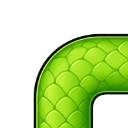
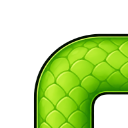
Improvement(snake): Refine corner body sprite
Context:
The refreshed Snake sprite set uses four base 128x128 segment images, with the corner body sprite rotated in CSS to render turns. The corner sprite was updated to better fit the surrounding segment art after the broader sprite refresh.

The desired behavior is for Snake turns to use the refined corner artwork while preserving gameplay, board layout, accessibility labels, segment-orientation logic, and the existing public sprite asset contract.

Implementation:
Replaced `public/images/snake/snake-body-corner.png` with the updated 128x128 RGBA PNG.

Bumped `SNAKE_ASSET_VERSION` in `src/components/snake-board.tsx` from `sprite-art-v10` to `sprite-art-v11` so browsers request refreshed Snake sprite URLs instead of reusing cached v10 corner artwork.

Updated `src/components/game-boards.test.tsx` static renderer expectations so Snake board output asserts the v11 sprite URLs for floor, snake segments, foods, timed foods, and obstacles, including the corner-body asset.

Verification:
- Confirmed `public/images/snake/snake-body-corner.png` remains a 128x128 8-bit RGBA non-interlaced PNG.
- Ran `npm test -- src/components/game-boards.test.tsx`; 1 file and 9 tests passed, including the Snake static renderer case that asserts the v11 corner sprite URL and rotated segment transform.
[…]

diff --git a/src/components/game-boards.test.tsx b/src/components/game-boards.test.tsx
@@ -76,18 +76,18 @@ describe("game board renderers", () => {
       "Snake board. Field 11 by 11. Score 7. Running. 2 obstacle blocks. Yellow apple active. Purple diamond active. Blue triangle active. Cyan hexagon active.",
       'data-testid="snake-food-feedback"',
       'data-testid="snake-overlay"',
-      "/images/snake/floor-cell.png?v=sprite-art-v10",
-      "/images/snake/snake-head.png?v=sprite-art-v10",
-      "/images/snake/snake-body-straight.png?v=sprite-art-v10",
-      "/images/snake/snake-body-corner.png?v=sprite-art-v10",
-      "/images/snake/snake-tail.png?v=sprite-art-v10",
-      "/images/snake/food-red-apple.png?v=sprite-art-v10",
-      "/images/snake/food-yellow-apple.png?v=sprite-art-v10",
-      "/images/snake/food-purple-diamond.png?v=sprite-art-v10",
-      "/images/snake/food-blue-triangle.png?v=sprite-art-v10",
-      "/images/snake/food-cyan-hexagon.png?v=sprite-art-v10",
-      "/images/snake/obstacle-stone-a.png?v=sprite-art-v10",
-      "/images/snake/obstacle-stone-b.png?v=sprite-art-v10",
+      "/images/snake/floor-cell.png?v=sprite-art-v11",
+      "/images/snake/snake-head.png?v=sprite-art-v11",
+      "/images/snake/snake-body-straight.png?v=sprite-art-v11",
+      "/images/snake/snake-body-corner.png?v=sprite-art-v11",
+      "/images/snake/snake-tail.png?v=sprite-art-v11",
+      "/images/snake/food-red-apple.png?v=sprite-art-v11",
+      "/images/snake/food-yellow-apple.png?v=sprite-art-v11",
+      "/images/snake/food-purple-diamond.png?v=sprite-art-v11",
+      "/images/snake/food-blue-triangle.png?v=sprite-art-v11",
+      "/images/snake/food-cyan-hexagon.png?v=sprite-art-v11",
+      "/images/snake/obstacle-stone-a.png?v=sprite-art-v11",
+      "/images/snake/obstacle-stone-b.png?v=sprite-art-v11",
       "transform:rotate(90deg)",
     ]);
   });

diff --git a/src/components/snake-board.tsx b/src/components/snake-board.tsx
@@ -32,7 +32,7 @@ type SnakeBoardProps = {
   statusLabel: string;
 };
 
-const SNAKE_ASSET_VERSION = "sprite-art-v10";
+const SNAKE_ASSET_VERSION = "sprite-art-v11";
 const SNAKE_ASSET_ROOT = "/images/snake";
 
 function getSnakeAssetSrc(fileName: string) {
